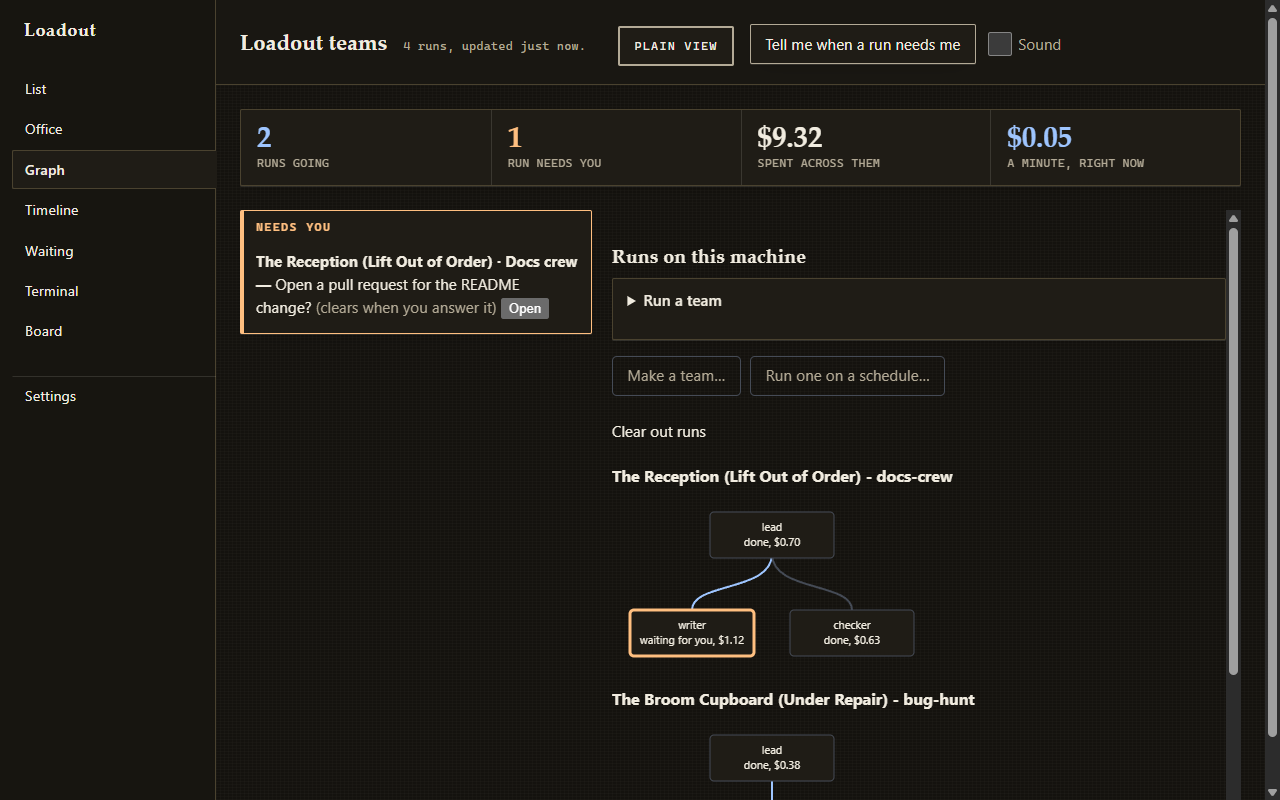
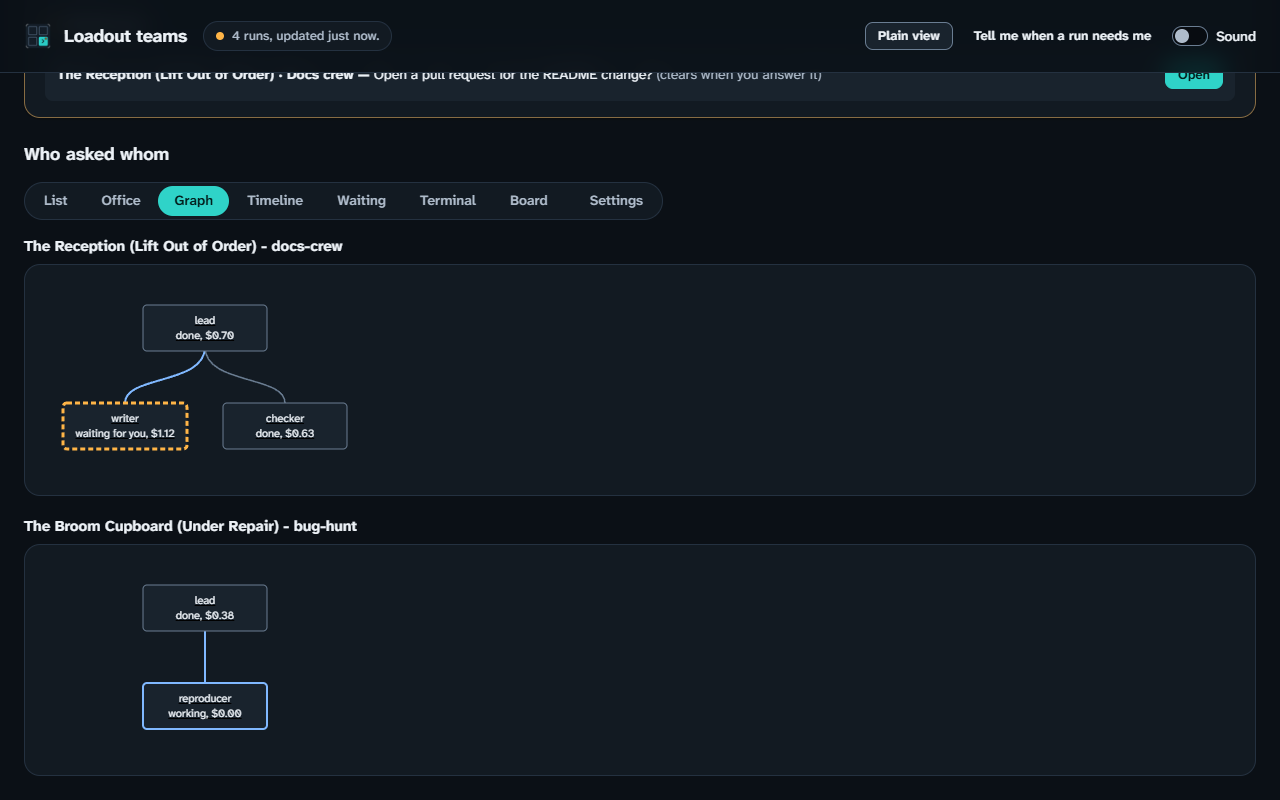
Show and describe the dashboard as the kit draws it
The nine dashboard screenshots are retaken from the docs sandbox at
1280 wide, in Graphite (the kit's default) except the settings one,
which shows High contrast in its light form. The office screenshot is
back: it no longer draws its rooms over the run list with no office
pack installed. Page text was put through privacy-check.py: no hits.

docs/guides/dashboard.md describes the new Settings screen (the five
themes, light or dark, the five accents, density, and the new text
size, reading and focus ring groups), what an old saved look becomes,
the top bar rather than the letterhead, and that the typeface is
carried in the page rather than there being none. Alt text follows the
new pictures. docs/guides/accessibility.md replaces the old contrast
and axe figures with ones measured for this page: every text colour on
every surface of every theme (worst 4.7:1 in Daylight), every accent
(worst 4.8:1), axe on every screen of both pages in all five themes,
and no sideways scrolling at 320px or 200% zoom. The plain-language
copies get the alt text and a line about the new settings.

diff --git a/docs/guides/dashboard.md b/docs/guides/dashboard.md
@@ -38,7 +38,7 @@ Copy the whole address, token included, into your browser. Or start it with
 loadout team dashboard --open
 ```
 
-![The dashboard's run list. A ledger of totals across the top, then one run under "Needs you" waiting for an answer, one under "Running", and the first of two under "Finished". Each card states its run's state as a word.](../images/dashboard-list-rich.png)
+![The dashboard's run list. A band of totals across the top, then one run under "Needs you" waiting for an answer, one under "Running", and the start of "Finished". Each card states its run's state as a word, with a glyph beside it.](../images/dashboard-list-rich.png)
 
 You should see a band of totals across the top, then your runs grouped under
 *Needs you*, *Running* and *Finished*. *Needs you* comes first because a run
@@ -56,7 +56,7 @@ loadout team dashboard --view plain
 
 ![The plain dashboard: the same four runs as a single list, each row giving the run's name, its state in words, and what it has cost.](../images/dashboard-list-plain.png)
 
-You can also press **Plain view** in the letterhead of either page. It's early
+You can also press **Plain view** in the top bar of either page. It's early
 in the tab order on purpose. `--view` doesn't override your motion setting:
 asking for the rich page isn't asking for more movement.
 
@@ -70,7 +70,7 @@ runs in different ways; *Waiting* shows what hasn't become a run yet, and
 - **Office** — one room per run, a desk per node. The one to leave on a spare
   screen.
 
-  ![The office screen. One room for a docs-crew run with a desk for each of its three nodes, each desk a square with the node's name and state written under it: done, waiting for you, and left. The next run's room starts below it.](../images/dashboard-office.png)
+  ![The office screen. One room per run, two across. The docs-crew run's room has a desk for each of its three nodes, each desk a rounded square with the node's name and state written under it: done, waiting for you, and left. The one waiting for you is outlined in amber with a dot on its corner.](../images/dashboard-office.png)
 
 - **Graph** — who asked whom. Reach for it when something is stuck.
 
@@ -78,12 +78,12 @@ runs in different ways; *Waiting* shows what hasn't become a run yet, and
 
 - **Timeline** — where the time and money went, a strip per day.
 
-  ![The timeline screen. Three days, each a strip showing when runs started and ended, with that day's time and cost written beside it.](../images/dashboard-timeline.png)
+  ![The timeline screen. Two days, each with a strip per run showing when it started and ended, and that day's time and cost written above it. A running run's strip is striped and a finished one is solid.](../images/dashboard-timeline.png)
 
 - **Waiting** — schedules that haven't fired and tasks nobody has finished.
   Anything held says what's holding it, in words.
 
-  ![The waiting screen. One scheduled team run, due today at 07:00, then two open tasks. The last one says "blocked" in words, and why.](../images/dashboard-waiting.png)
+  ![The waiting screen. One scheduled team run, due at 07:00, then two open tasks. The last one says "blocked" in words, and why.](../images/dashboard-waiting.png)
 
 - **Terminal** — a node's output, line by line, as it happens.
 
@@ -153,11 +153,35 @@ loadout team halt            # stop it after the round it is in
 
 Open the settings page.
 
-![The dashboard settings. The High contrast theme is selected, and the page is shown in black and white with every rule drawn.](../images/dashboard-themes.png)
+![The dashboard settings in the light High contrast theme: black on white with every rule drawn, High contrast and Light chosen, and the five accents each with a swatch beside its name.](../images/dashboard-themes.png)
 
-There are four themes, each with a light and a dark version, and a set of
-accents that were each measured against their theme. These settings stay in
-this browser and nowhere else.
+These change how this browser draws the page, and stay in this browser and
+nowhere else.
+
+- **Theme.** Graphite, the default, is dark; Daylight is its light
+  equal; Carbon is true black, for an OLED screen or a spare monitor at night,
+  and is dark only; High contrast has a dark and a light, with every word at
+  7:1 or better and every rule drawn.
+- **Light or dark.** Follow your system, which is the default, or pick one.
+  It chooses between Graphite and Daylight, and between the two high-contrast
+  themes.
+- **Accent.** Bay, Signal, Orchid, Sand or Frost: the colour of what you can
+  act on and where you are. A set rather than a colour picker, because each
+  was measured in every theme.
+- **Density.** Compact, Comfortable or Spacious.
+- **Text size.** 100%, 112%, 125% or 150%. Everything grows with it, controls
+  included, and your browser's zoom still works on top.
+- **Reading.** Roomy spaces lines, letters and words further apart, and stops
+  a run's goal being cut short on its card.
+- **Focus ring.** Bold draws the ring round whatever the keyboard is on at 3
+  pixels rather than 2. The high-contrast themes always draw it bold.
+- **Movement.** As your profile and system say, or none at all. Your machine
+  is asked as well and the quieter answer wins, so nothing here can bring back
+  movement you turned down elsewhere.
+
+A look chosen before this version, in the old Paper, Slate or Oxblood themes,
+comes back as Graphite; High contrast stays High contrast; and every old accent
+becomes Bay.
 
 ## Only watching
 
@@ -180,9 +204,10 @@ its controls away rather than showing buttons that do nothing.
 
 ## What this doesn't do
 
-- It fetches nothing from the internet, so there's no webfont and no image.
-  Office desks are squares with names written in them, because Loadout ships no
-  art.
+- It fetches nothing from the internet. Its typeface, Atkinson Hyperlegible,
+  and the Loadout icon are carried inside the page. Office desks are drawn as
+  rounded squares with names written under them, because Loadout ships no
+  office art.
 - Only the dashboard's own machine can reach it by default.
 - No screen reader has been used with it, and no keyboard-only pass by a person
   has been recorded. [Setting up accessibility](accessibility.md) has what was

diff --git a/docs/guides/accessibility.md b/docs/guides/accessibility.md
@@ -179,9 +179,10 @@ can't check it.
 | Each preset produces the guidance, flags and settings it promises | Tested |
 | Accessible output carries no escape sequences | Tested |
 | Menus are numbered, and refuse a number outside the list | Tested |
-| Dashboard: axe-core 4.10.2, fifteen states across both pages | No violations |
-| Dashboard text contrast | 6.8:1 at worst in light, 9:1 in dark, against 4.5:1 required |
-| All 48 dashboard theme, scheme and accent combinations | Pass, worst 5.2:1 |
+| Dashboard: axe-core 4.10.2, nine states on both pages in all five themes | No violations |
+| Dashboard text contrast, every text colour on every surface | 4.7:1 at worst in Daylight, 5.6:1 in the dark themes, 7.3:1 in High contrast, against 4.5:1 required |
+| Dashboard accents, each on every surface of every theme | Pass, worst 4.8:1 |
+| Dashboard at 320 pixels wide and at 200% zoom, every screen, both pages | No sideways scrolling |
 | Dashboard speaking: the order in which it refuses | Tested against a stub, four mutations each failing its own test |
 | Speech through the Windows system voice | The route answers |
 | Speech through NVDA, or through `say` on macOS or speech-dispatcher on Linux | **Never heard** |

diff --git a/docs/plain/watching-a-team.md b/docs/plain/watching-a-team.md
@@ -54,7 +54,7 @@ loadout team dashboard --open
 
 Your web browser opens. Only your own computer can see this page.
 
-![The dashboard's run list. A ledger of totals across the top, then one run under "Needs you" waiting for an answer, one under "Running", and the first of two under "Finished". Each card states its run's state as a word.](../images/dashboard-list-rich.png)
+![The dashboard's run list. A band of totals across the top, then one run under "Needs you" waiting for an answer, one under "Running", and the start of "Finished". Each card states its run's state as a word, with a glyph beside it.](../images/dashboard-list-rich.png)
 
 You'll see your team's work on a card. The card says in words what state it's
 in.

diff --git a/docs/plain/accessibility.md b/docs/plain/accessibility.md
@@ -77,6 +77,10 @@ loadout team dashboard --open
 With the **screen-reader** or **low-vision** preset, you get a plainer page.
 Every page has a **Plain view** button near the top.
 
+The page's **Settings** can make the text bigger, space it out more, and make
+the ring round what the keyboard is on thicker. There are high-contrast
+themes, dark and light.
+
 ### 6. Speech, only if you want it
 
 Speech is off, even with the **screen-reader** preset. To turn it on, type this
